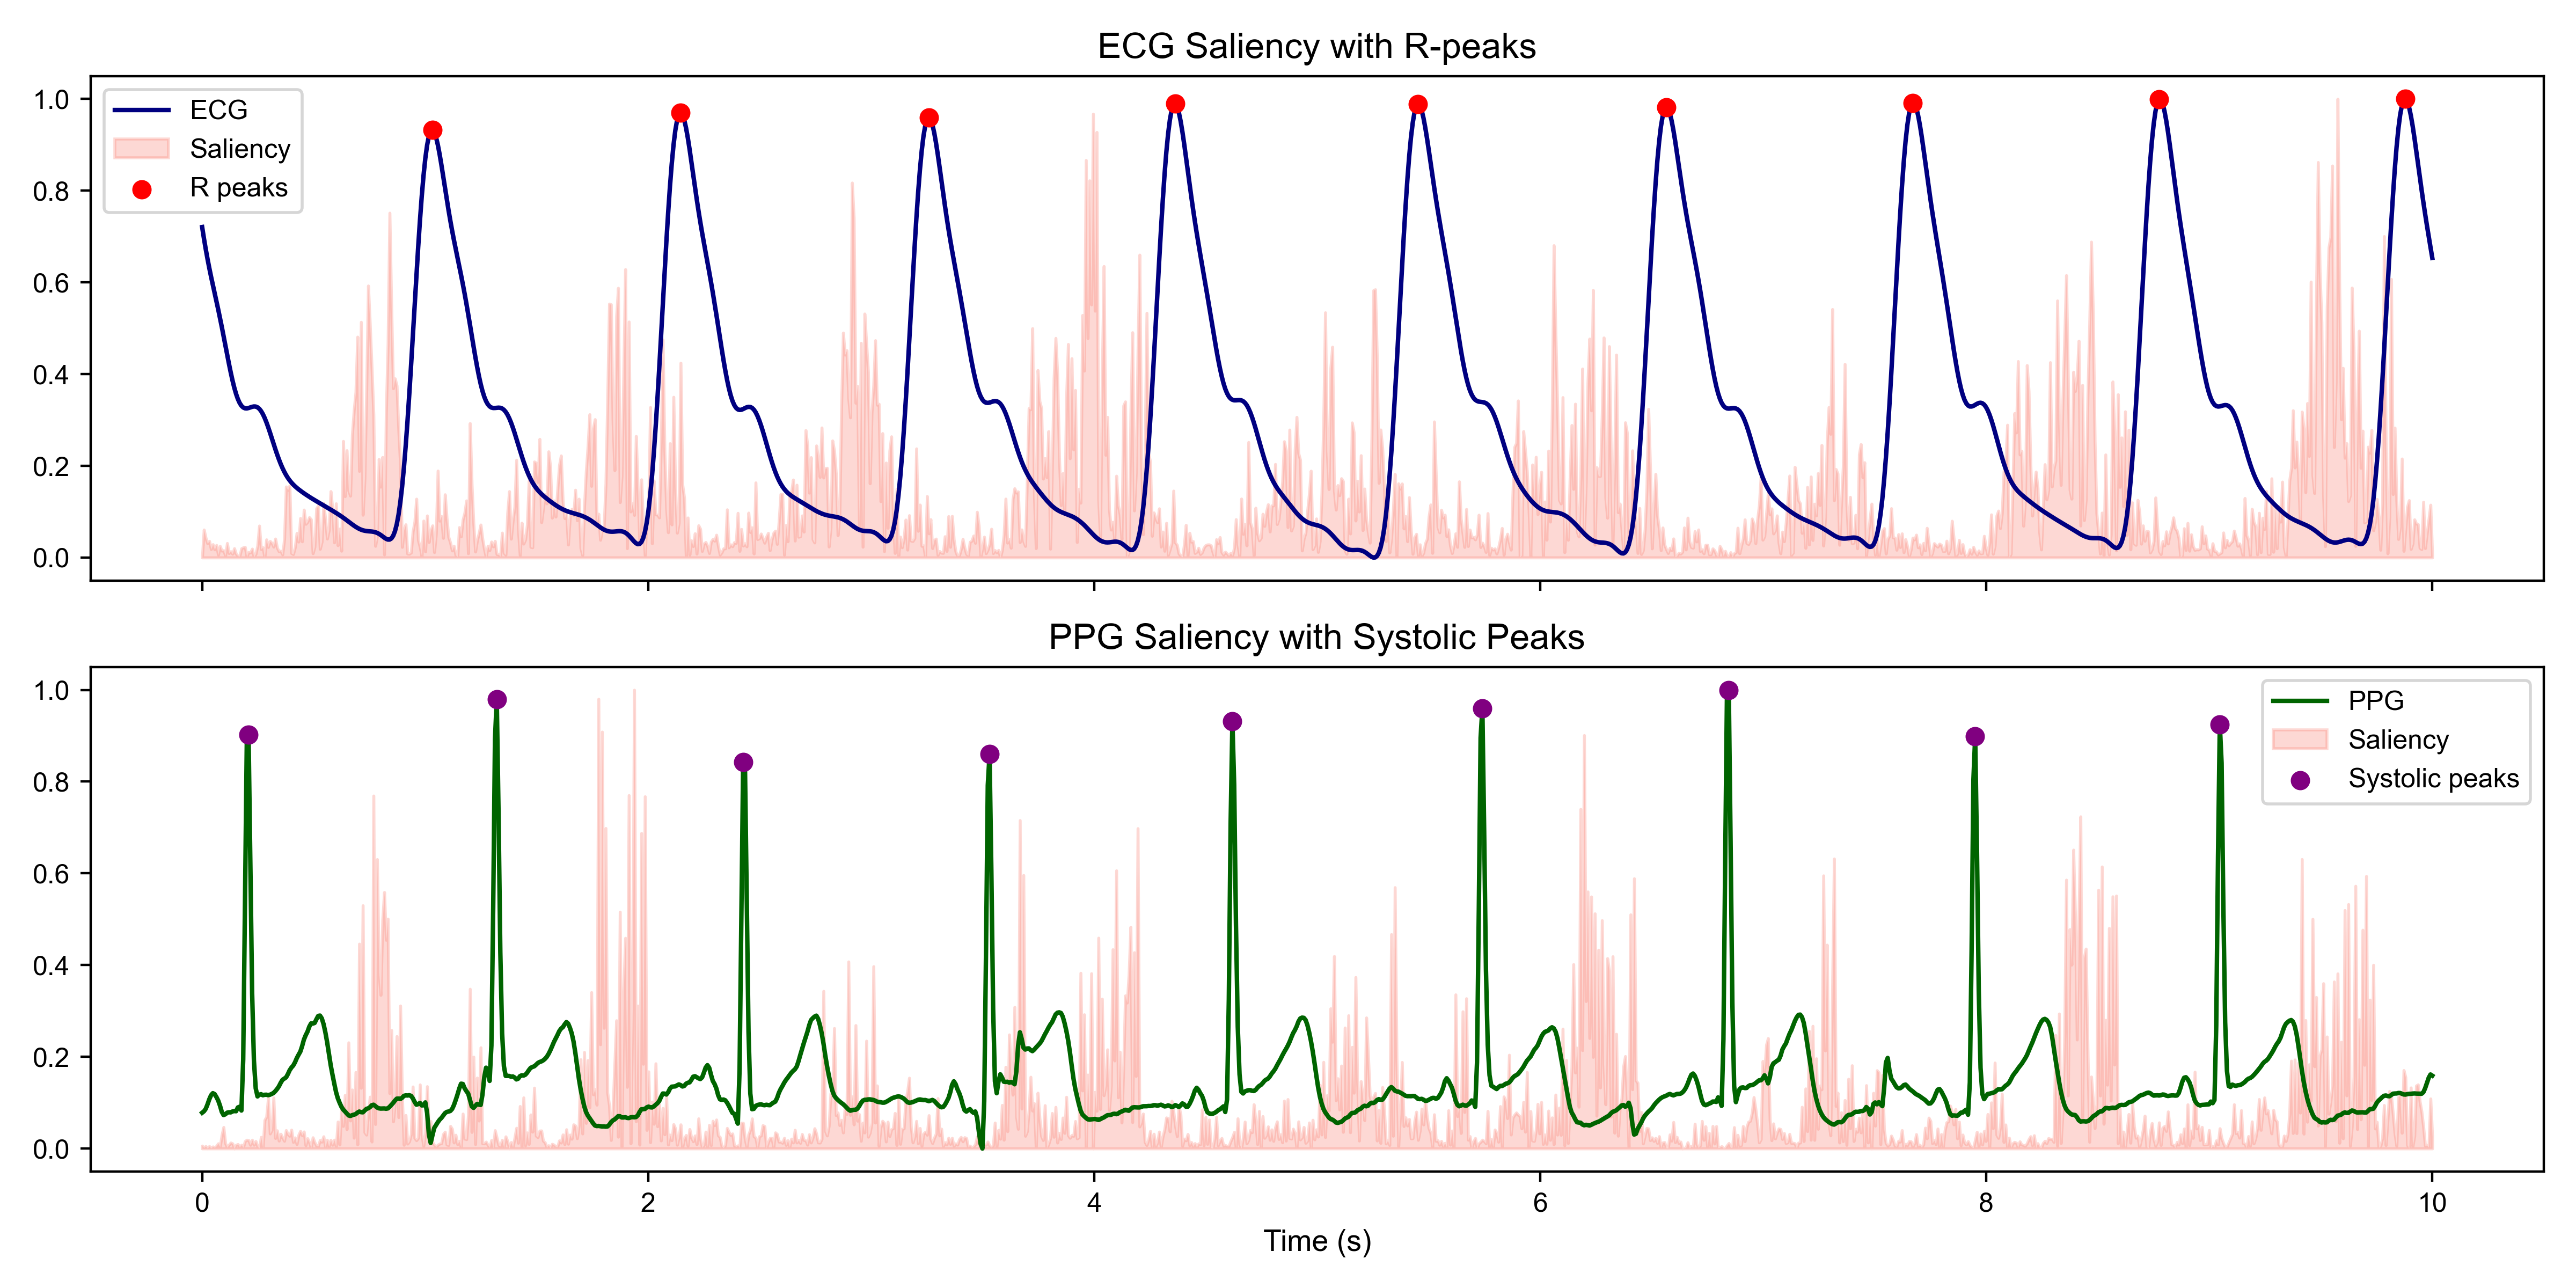
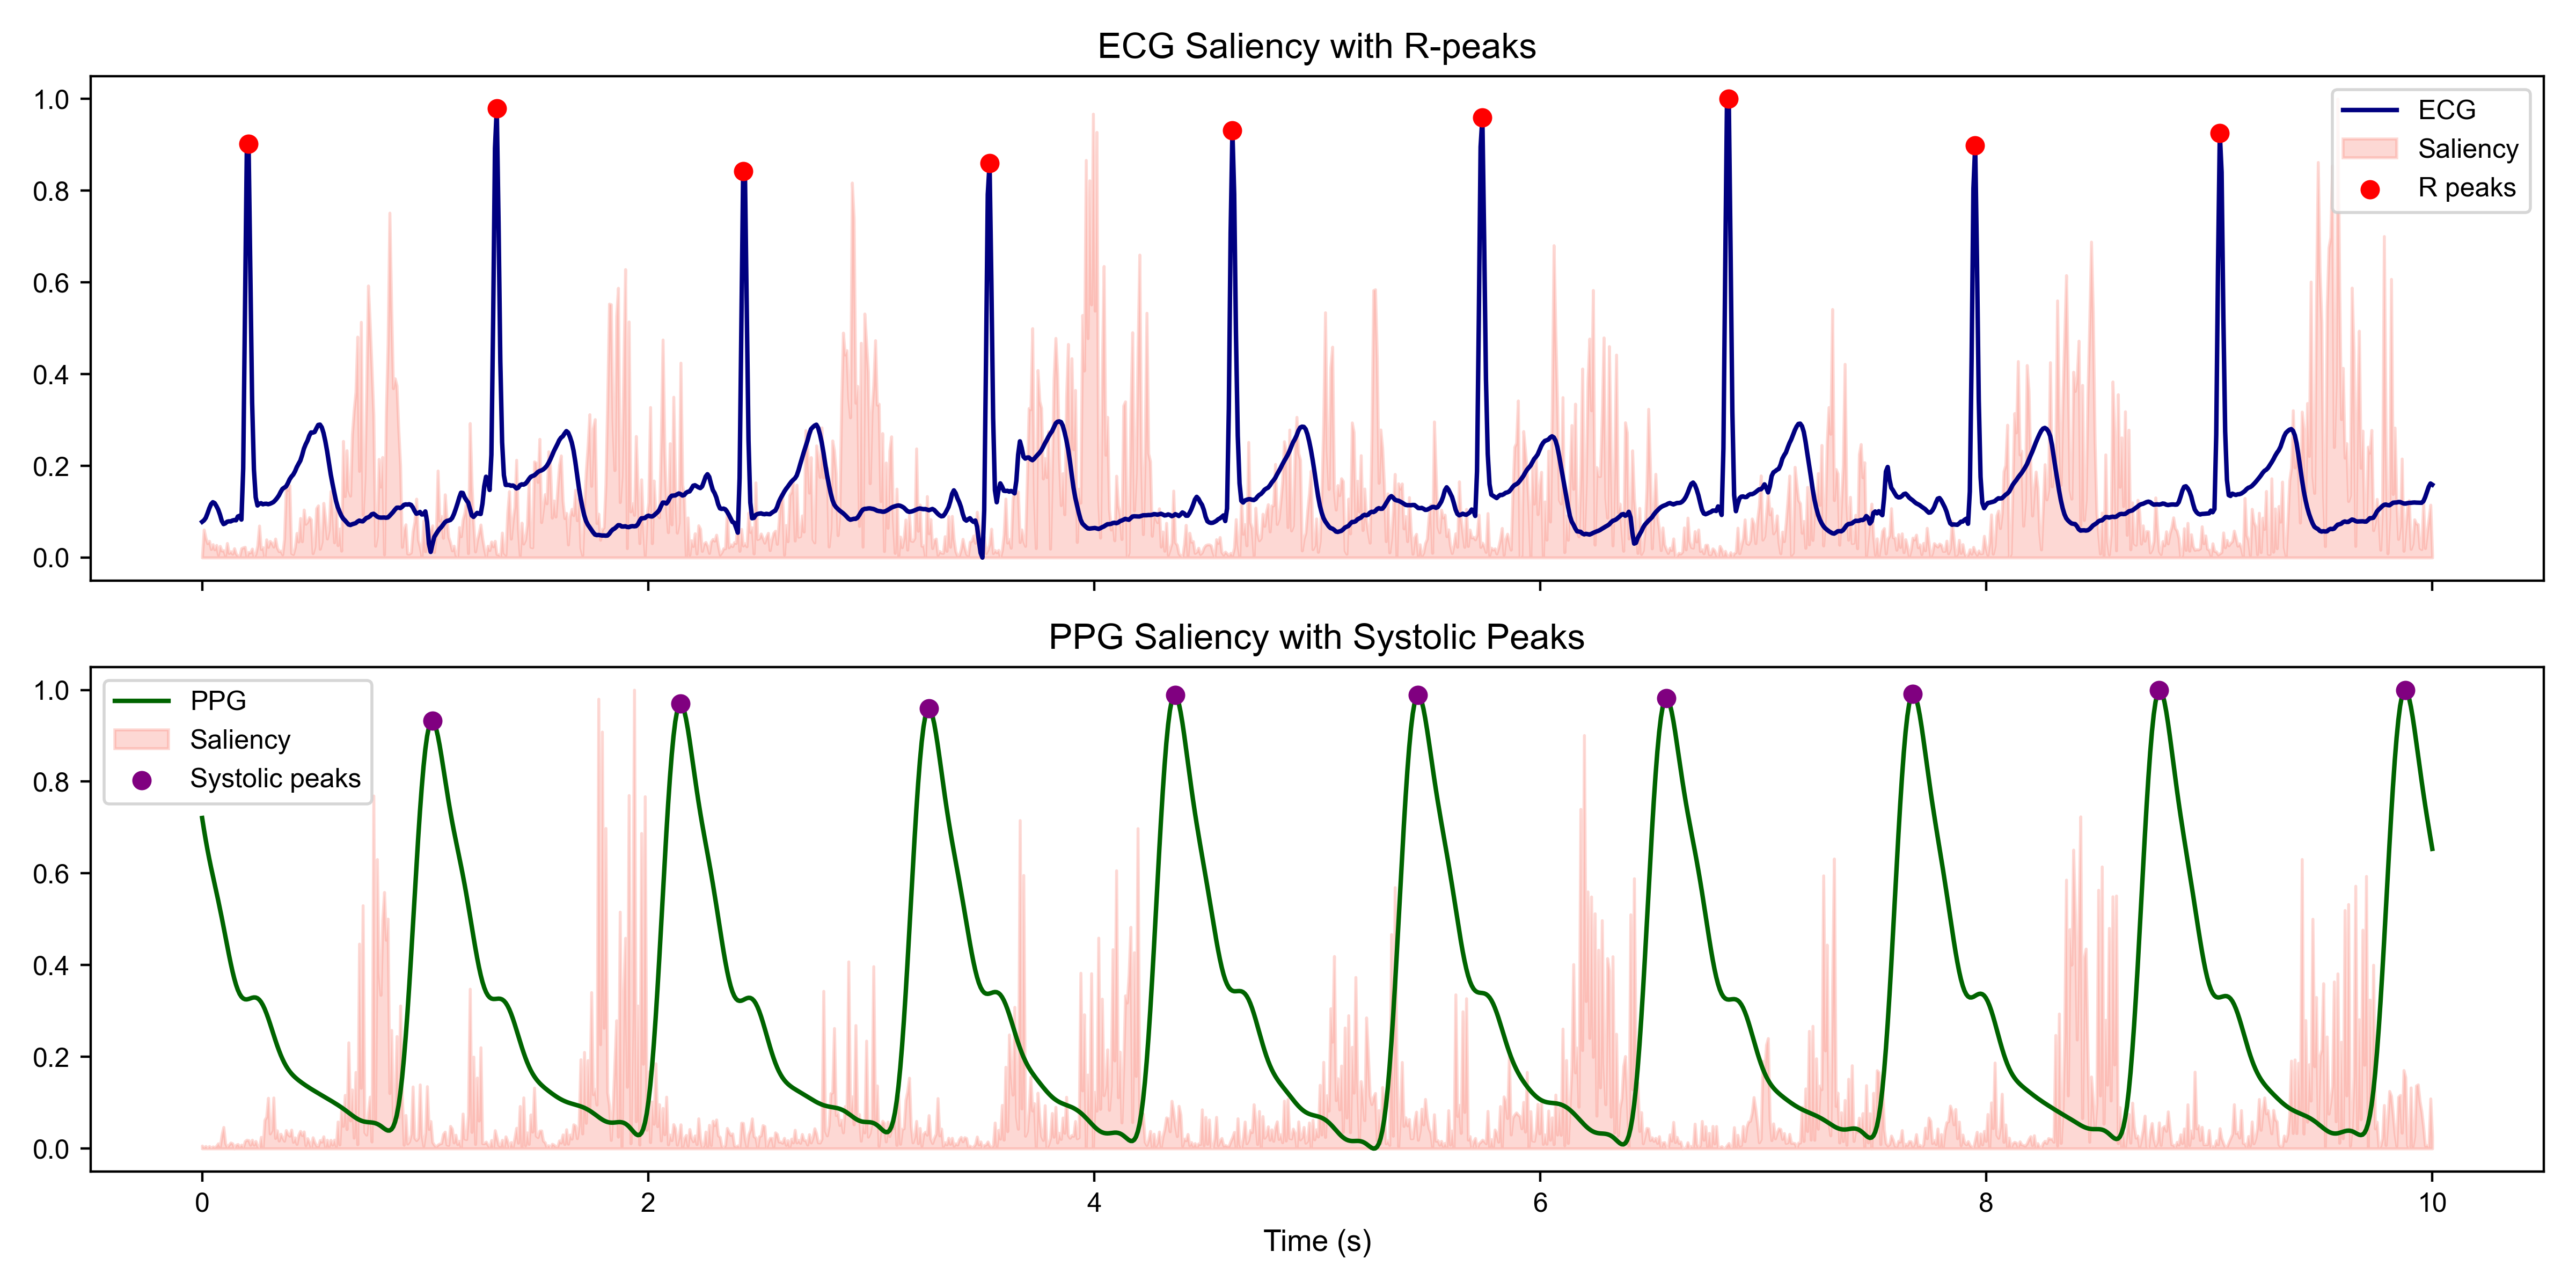
11

diff --git a/Model_Training/Model_Def/TIM/models.py b/Model_Training/Model_Def/TIM/models.py
@@ -3,7 +3,6 @@ import torch.nn as nn
 import torch.nn.functional as F
 from torch.nn import MultiheadAttention
 
-
 # DenseNet
 class DenseLayer(torch.nn.Module):
     def __init__(self, in_channels, middle_channels=128, out_channels=32):
@@ -498,63 +497,6 @@ class MobileNetV3_large(torch.nn.Module):
         x = self.regressor(x)
         return x
     
-# MobileViT1D
-# —— 局部卷积块 + MobileViT 短块组合 —— #
-class MobileViTBlock1D(nn.Module):
-    def __init__(self, dim, kernel_size=3, patch_size=25, mlp_dim=128, dropout=0.1):
-        super().__init__()
-        self.conv1 = nn.Conv1d(dim, dim, kernel_size, padding=kernel_size//2)
-        self.conv2 = nn.Conv1d(dim, dim, kernel_size, padding=kernel_size//2)
-        self.norm = nn.BatchNorm1d(dim)
-
-        self.patch_size = patch_size
-        self.dim = dim
-        flatten_dim = patch_size * dim  # 每个 patch 展平后的维度
-        # 相当于 transformer 中的跨 patch attention
-        self.transformer = nn.Sequential(
-            nn.Linear(flatten_dim, mlp_dim),
-            nn.GELU(),
-            nn.Dropout(dropout),
-            nn.Linear(mlp_dim, flatten_dim),
-            nn.Dropout(dropout),
-        )
-
-    def forward(self, x):
-        # x: [B, C, L]
-        y = self.conv1(x)
-        y = self.conv2(F.relu(y))
-        y = self.norm(y)
-        # 切 patch
-        B, C, L = y.shape
-        y = y.view(B, C, L // self.patch_size, self.patch_size)
-        y = y.permute(0, 2, 3, 1).contiguous()  # [B, Npatch, patch_size, C]
-        y = y.flatten(2)  # 每 patch 展平 [B, Npatch, patch_size*C]
-        y = self.transformer(y)  # mix across patches
-        # 重构形状
-        y = y.view(B, L // self.patch_size, self.patch_size, C)\
-             .permute(0, 3, 1, 2).contiguous()
-        y = y.view(B, C, L)
-        return F.relu(x + y)
-
-# —— Full MobileViT1D-inspired 回归模型 —— #
-class MobileViT1DRegressor(nn.Module):
-    def __init__(self, input_dim=2, dim=32, depth=3, patch_size=25, mlp_dim=64, output_dim=1):
-        super().__init__()
-        self.stem = nn.Conv1d(input_dim, dim, kernel_size=3, padding=1)
-        self.blocks = nn.Sequential(*[
-            MobileViTBlock1D(dim, kernel_size=3, patch_size=patch_size, mlp_dim=mlp_dim)
-            for _ in range(depth)
-        ])
-        self.pool = nn.AdaptiveAvgPool1d(1)
-        self.fc = nn.Linear(dim, output_dim)
-
-    def forward(self, x):
-        # x: [B, 2, L]
-        x = self.stem(x)          # [B, dim, L]
-        x = self.blocks(x)       # MobileViT 模块
-        x = self.pool(x).squeeze(-1)  # [B, dim]
-        return self.fc(x)        # [B, output_dim]
-    
 # LSTM hard 回归器
 class LSTMRegressor1D(nn.Module):
     def __init__(
@@ -640,102 +582,7 @@ def build_lstm_baseline():
         use_batchnorm_stem=True,
     )
 
-# class MobileViTBlock1D2(nn.Module):
-#     def __init__(self, dim, kernel_size=7, patch_size=25, mlp_ratio=4, dropout=0.1):
-#         super().__init__()
-#         # 分块参数
-#         self.patch_size = patch_size
-#         self.dim = dim
-        
-#         # 局部特征提取（深度可分离卷积）
-#         self.local_conv = nn.Sequential(
-#             nn.Conv1d(dim, dim, kernel_size, padding=kernel_size//2, groups=dim, bias=False),
-#             nn.BatchNorm1d(dim),
-#             nn.Conv1d(dim, dim, 1, bias=False),  # 逐点卷积
-#             nn.BatchNorm1d(dim),
-#             nn.GELU()
-#         )
-        
-#         # 跨块注意力
-#         self.attn = MultiheadAttention(
-#             embed_dim=dim * patch_size,
-#             num_heads=4,
-#             dropout=dropout,
-#             batch_first=True
-#         )
-        
-#         # MLP扩展
-#         self.mlp = nn.Sequential(
-#             nn.Linear(dim * patch_size, dim * patch_size * mlp_ratio),
-#             nn.GELU(),
-#             nn.Dropout(dropout),
-#             nn.Linear(dim * patch_size * mlp_ratio, dim * patch_size),
-#             nn.Dropout(dropout)
-#         )
-        
-#         # 归一化层
-#         self.norm1 = nn.LayerNorm(dim * patch_size)
-#         self.norm2 = nn.LayerNorm(dim * patch_size)
-
-#     def forward(self, x):
-#         B, C, L = x.shape
-#         residual = x
-        
-#         # 1. 局部特征提取
-#         x = self.local_conv(x)  # [B, C, L]
-        
-#         # 2. 分块处理
-#         x = x.view(B, C, L // self.patch_size, self.patch_size)  # [B, C, N, P]
-#         x = x.permute(0, 2, 1, 3).reshape(B, -1, C * self.patch_size)  # [B, N, C*P]
-        
-#         # 3. 残差连接 + 注意力
-#         x = x + self.attn(self.norm1(x), self.norm1(x), self.norm1(x))[0]
-        
-#         # 4. 残差连接 + MLP
-#         x = x + self.mlp(self.norm2(x))
-        
-#         # 5. 恢复形状
-#         x = x.view(B, -1, C, self.patch_size).permute(0, 2, 1, 3).reshape(B, C, L)
-#         return x + residual
-
-# class MobileViT1D2(nn.Module):
-#     def __init__(self, input_dim=2, dim=32, depth=4, patch_size=25, output_dim=1):
-#         super().__init__()
-#         # 输入处理
-#         self.stem = nn.Sequential(
-#             nn.Conv1d(input_dim, dim, kernel_size=7, stride=2, padding=3, bias=False),
-#             nn.BatchNorm1d(dim),
-#             nn.GELU(),
-#             nn.MaxPool1d(kernel_size=3, stride=2, padding=1)
-#         )  # [B,2,1250] → [B,32,312]
-        
-#         # MobileViT块堆叠
-#         self.blocks = nn.Sequential(*[
-#             MobileViTBlock1D2(
-#                 dim=dim,
-#                 kernel_size=7 if i % 2 == 0 else 3,  # 交替卷积核大小
-#                 patch_size=patch_size,
-#                 mlp_ratio=4
-#             )
-#             for i in range(depth)
-#         ])
-        
-#         # 输出头
-#         self.head = nn.Sequential(
-#             nn.AdaptiveAvgPool1d(1),
-#             nn.Flatten(),
-#             nn.Linear(dim, output_dim)
-#         )
-
-#     def forward(self, x):
-#         # 输入形状检查
-#         assert x.shape[1:] == (2, 1250), f"Expected input shape [B,2,1250], got {x.shape}"
-        
-#         x = self.stem(x)      # [B,32,312]
-#         x = self.blocks(x)    # [B,32,312]
-#         return self.head(x)   # [B,output_dim]
-
-class MobileViTBlock1D2(nn.Module):
+class MobileViTBlock1D(nn.Module):
     def __init__(self, dim, kernel_size=7, patch_size=25, mlp_ratio=4, dropout=0.1):
         super().__init__()
         self.patch_size = patch_size
@@ -799,7 +646,7 @@ class MobileViTBlock1D2(nn.Module):
         return x + residual
 
 
-class MobileViT1D2(nn.Module):
+class MobileViT1D(nn.Module):
     def __init__(self, input_dim=2, dim=32, depth=3, patch_size=16, output_dim=1):
         super().__init__()
         self.stem = nn.Sequential(
@@ -810,7 +657,7 @@ class MobileViT1D2(nn.Module):
         )  # 输入(2,1250) → 输出(32,312)
 
         self.blocks = nn.Sequential(*[
-            MobileViTBlock1D2(
+            MobileViTBlock1D(
                 dim=dim,
                 kernel_size=7 if i % 2 == 0 else 3,
                 patch_size=patch_size,
@@ -831,36 +678,36 @@ class MobileViT1D2(nn.Module):
         x = self.blocks(x)   # MobileViT Blocks
         return self.head(x)  # → [B, output_dim]
 
-def lstm_o3_1d():
-    return build_lstm_baseline()
-def MobileViT1D():
-    return MobileViT1DRegressor(input_dim=2, dim=64, depth=2, patch_size=25, mlp_dim=128, output_dim=1)
+def lstm():
+        return LSTMRegressor1D(num_inputs=2,num_outputs=1,stem_channels=64,  # 48~96 区间可调
+        lstm_hidden=320,   # 192~320 区间可调
+        lstm_layers=3,     # 2~3 层
+        bidirectional=True,lstm_dropout=0.1,head_hidden=128,head_dropout=0.1,use_batchnorm_stem=True)
 def MobileViT1Dnew():
-    return MobileViT1D2(input_dim=2, dim=32, depth=3, output_dim=1)
+    return MobileViT1D(input_dim=2, dim=32, depth=3, output_dim=1)
 def VGG16():
     return VGG(VGG_CONFIGS["VGG16"], in_channels=2, output_dim=1)
 def VGG19():
     return VGG(VGG_CONFIGS["VGG19"], in_channels=2, output_dim=1)
 def DenseNet_1D():
     return DenseNet(layer_num=(6, 12, 24, 16), growth_rate=32, in_channels=2, output_dim=1)
-
 def Xception_1D():
     return Xception(in_channels=2, output_dim=1)
-# def efficientnet_b0():
-#     return EfficientNet(width_coefficient=1.0, depth_coefficient=1.0, dropout_rate=0.2, in_channels=2, output_dim=1)
+def efficientnet_b0():
+    return EfficientNet(width_coefficient=1.0, depth_coefficient=1.0, dropout_rate=0.2, in_channels=2, output_dim=1)
 def efficientnet_b1():
     return EfficientNet(width_coefficient=1.0, depth_coefficient=1.1, dropout_rate=0.2, in_channels=2, output_dim=1)
 def efficientnet_b2():
     return EfficientNet(width_coefficient=1.1, depth_coefficient=1.2, dropout_rate=0.3, in_channels=2, output_dim=1)
 def efficientnet_b3():
     return EfficientNet(width_coefficient=1.2, depth_coefficient=1.4, dropout_rate=0.3, in_channels=2, output_dim=1)
-# def efficientnet_b4():
-#     return EfficientNet(width_coefficient=1.4, depth_coefficient=1.8, dropout_rate=0.4, in_channels=2, output_dim=1)
+def efficientnet_b4():
+    return EfficientNet(width_coefficient=1.4, depth_coefficient=1.8, dropout_rate=0.4, in_channels=2, output_dim=1)
 def MobileNetV3():
     return MobileNetV3_large(in_channels=2, output_dim=1)
 
 if __name__ == "__main__":
-    model = MobileViT1Dnew()
+    model = lstm()
     inputs = torch.randn(32, 2, 1250)  # [B, C, L]
     output = model(inputs)
     n_params = sum(p.numel() for p in model.parameters() if p.requires_grad)

diff --git a/Model_Training/interpretability.py b/Model_Training/interpretability.py
@@ -37,7 +37,7 @@ def compute_saliency_map(model, input_tensor, target_value):
     return saliency
 
 def plot_saliency(signal, saliency, save_path="saliency_map.png"):
-    ecg, ppg = signal
+    ppg, ecg = signal
     ecg_sal, ppg_sal = saliency
     L = len(ecg)
     t = np.linspace(0, 10, L)
@@ -138,26 +138,6 @@ def plot_occlusion(positions, errors, L, save_path="occlusion_sensitivity.png"):
     plt.tight_layout()
     plt.savefig(save_path, dpi=400)
 
-def plot_saliency_fft(signal, saliency, save_path="saliency_fft.png"):
-    ecg, ppg = signal
-    ecg_sal, ppg_sal = saliency
-    fs = len(ecg) / 10
-    freqs = np.fft.rfftfreq(len(ecg), d=1/fs)
-    ecg_power = np.abs(np.fft.rfft(ecg_sal))**2
-    ppg_power = np.abs(np.fft.rfft(ppg_sal))**2
-    ecg_power /= ecg_power.max()
-    ppg_power /= ppg_power.max()
-    plt.figure(figsize=(10, 3))
-    plt.plot(freqs, ecg_power, label='ECG Saliency Spectrum', color='blue')
-    plt.plot(freqs, ppg_power, label='PPG Saliency Spectrum', color='green')
-    plt.xlim([0, 10])
-    plt.xlabel("Frequency (Hz)")
-    plt.ylabel("Normalized Power")
-    plt.title("Saliency Frequency Distribution")
-    plt.legend()
-    plt.tight_layout()
-    plt.savefig(save_path, dpi=400)
-
 def approx_shap_segments(model, input_tensor, label_tensor, n_segments=20):
     model.eval()
     input_tensor = input_tensor.clone()
@@ -193,7 +173,6 @@ def run_all(model_path, sample_path):
     # Saliency
     saliency = compute_saliency_map(model, input_tensor.clone(), label_tensor)
     plot_saliency(raw_signal, saliency)
-    # plot_saliency_fft(raw_signal, saliency)
 
     # Grad-CAM
     compute_gradcam(model, input_tensor.clone(), label_tensor)
@@ -205,10 +184,6 @@ def run_all(model_path, sample_path):
     # Occlusion
     pos, err = compute_occlusion_sensitivity(model, input_tensor.clone(), label_tensor)
     plot_occlusion(pos, err, raw_signal.shape[1])
-
-    # SHAP
-    # shap_values = approx_shap_segments(model, input_tensor.clone(), label_tensor)
-    # plot_shap_bar(shap_values)
 
     print("✅ All interpretability visualizations generated.")
 

diff --git a/Model_Training/Model_Training_vital.py b/Model_Training/Model_Training_vital.py
@@ -46,7 +46,7 @@ if __name__ == '__main__':
     # model = CF_Basic_s.Resnet34_1D()
     # model = DDCCR_without_mse.DDCCR_Net()
     # model = SwinCNN_1d.Swin1d()
-    model = models.lstm_o3_1d()
+    model = models.lstm()
 
     # 设置训练设备
     device = torch.device("cuda:0" if (torch.cuda.is_available()) else "cpu")